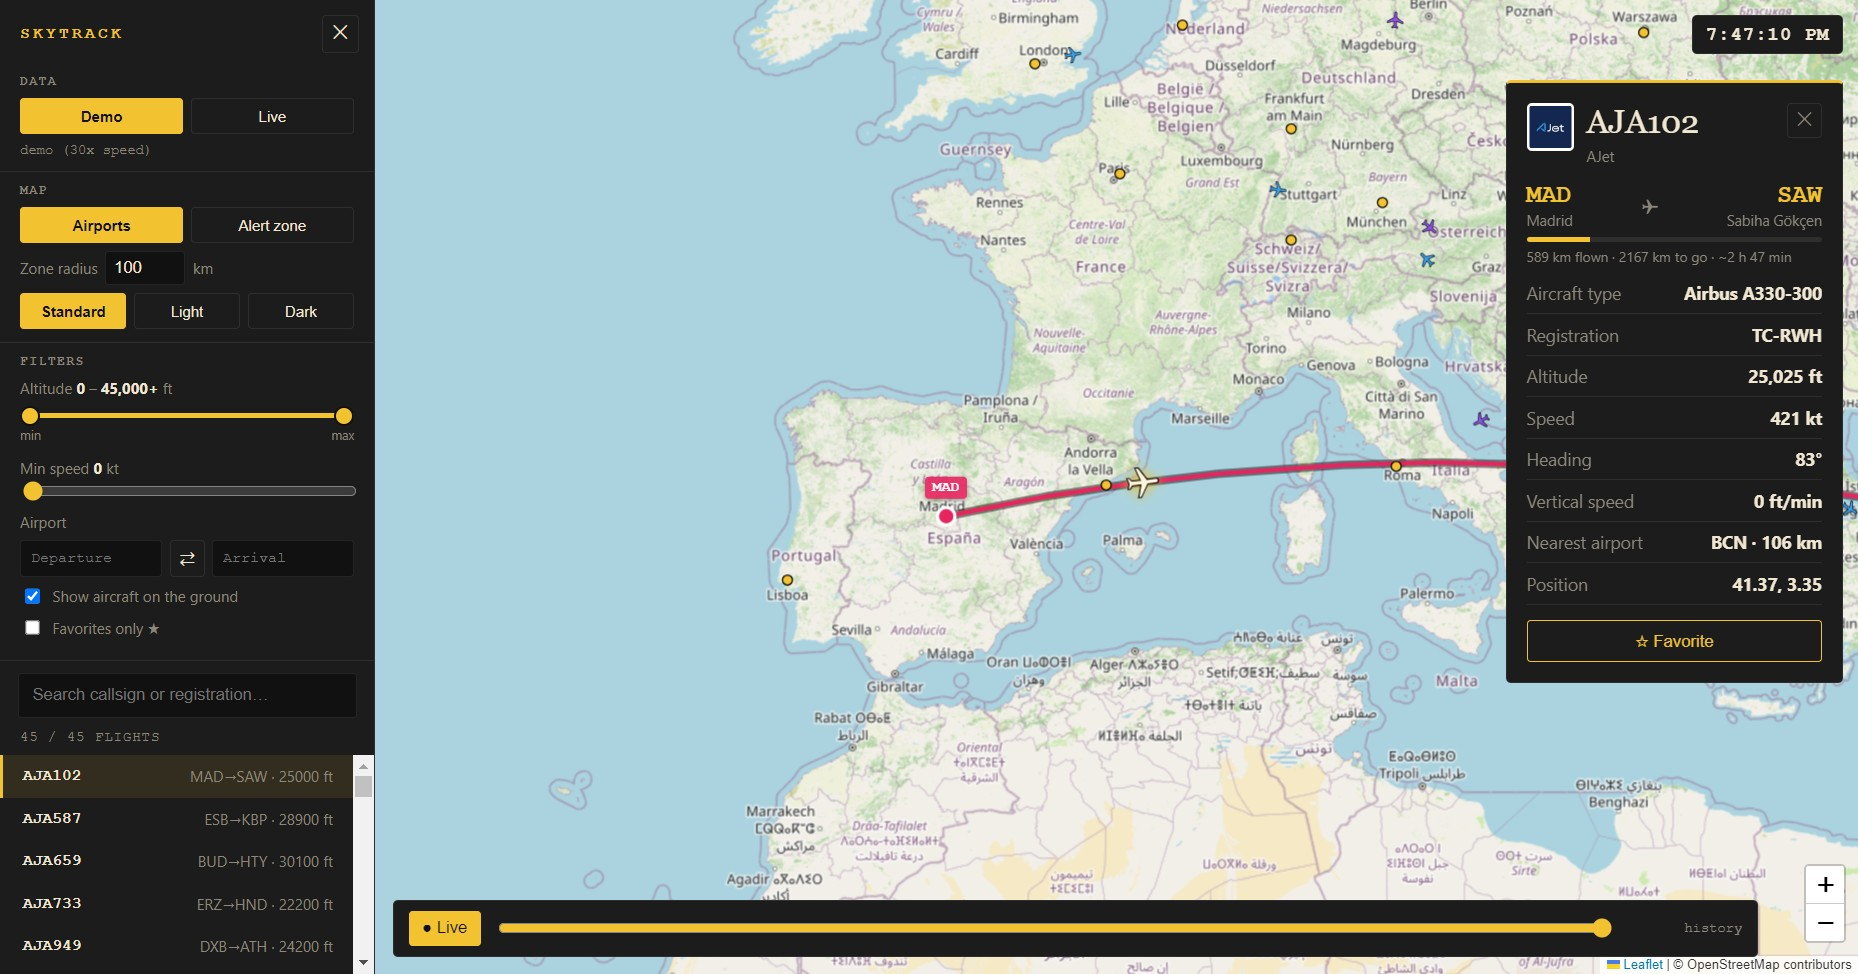
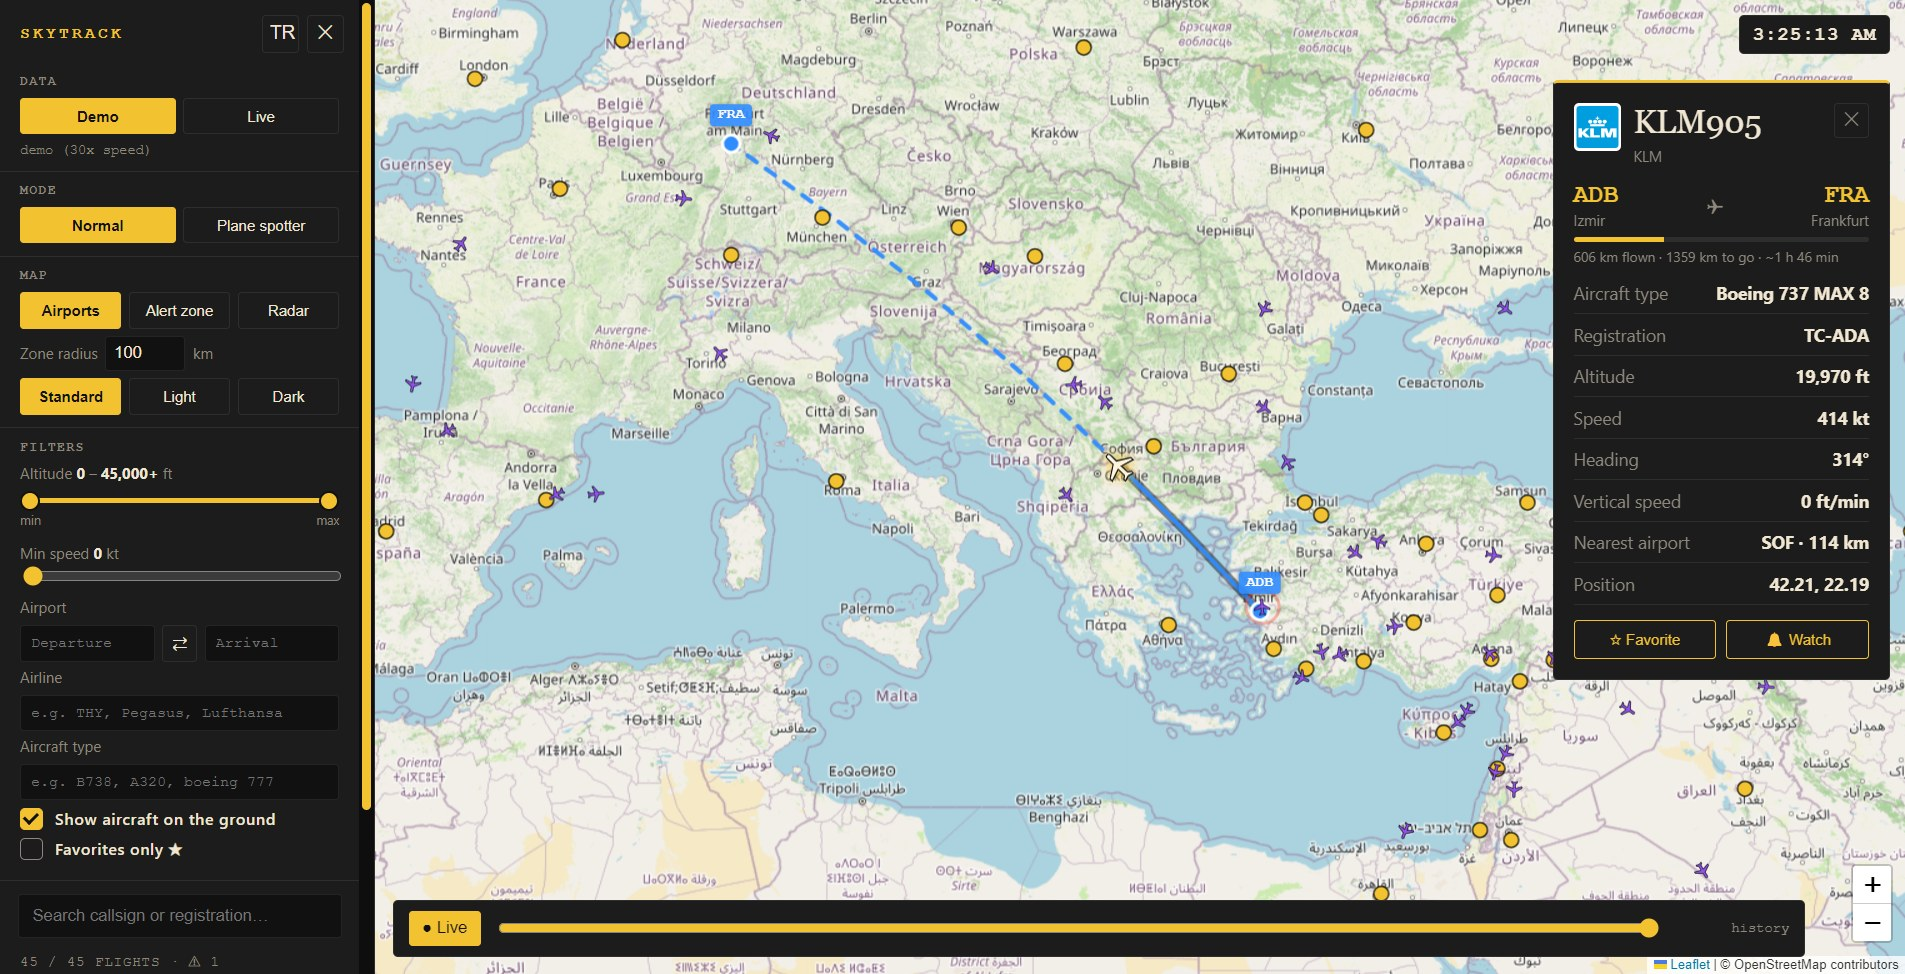
Site: new features, data sources and screenshot

diff --git a/site/index.html b/site/index.html
@@ -111,7 +111,7 @@ header,main,footer{position:relative;z-index:1}
     <a class="btn primary" href="#get-started">Get started</a>
     <a class="btn" href="https://github.com/SametDuhan/airock">View on GitHub</a>
   </div>
-  <div class="shot"><img src="screenshot.jpg" alt="SkyTrack in demo mode, with a selected flight's route and details" width="1280" height="719"></div>
+  <div class="shot"><img src="screenshot.jpg" alt="SkyTrack in demo mode, with a selected flight's route and details" width="1280" height="671"></div>
 </div>
 
 <section id="features"><div class="wrap">
@@ -121,10 +121,17 @@ header,main,footer{position:relative;z-index:1}
     <div class="card"><h3>Live flights</h3><p>Aircraft positions refresh every 15 seconds. Move the map and the new area loads right away.</p></div>
     <div class="card"><h3>Flight details</h3><p>Airline, aircraft type, registration, photo, route, distance and time left, altitude, speed and vertical speed.</p></div>
     <div class="card"><h3>Route and trail</h3><p>The route is drawn as a great-circle arc. The last ~30 minutes of the flight path show as a trail.</p></div>
-    <div class="card"><h3>Filters</h3><p>Altitude range, minimum speed, departure/arrival airport, aircraft on the ground, and favorites only.</p></div>
+    <div class="card"><h3>Filters</h3><p>Altitude range, minimum speed, departure/arrival airport, airline, aircraft type, aircraft on the ground, and favorites only.</p></div>
     <div class="card"><h3>Alert zone</h3><p>Pick a 10–500 km circle on the map. Get a notification when an aircraft enters it.</p></div>
     <div class="card"><h3>Replay</h3><p>Rewind the last hour with the slider at the bottom, then press “Live” to return.</p></div>
     <div class="card"><h3>Demo mode</h3><p>45 simulated flights, no internet needed. Time runs 30× faster.</p></div>
+    <div class="card"><h3>Airport panel</h3><p>Click an airport for its photo, city and country, current weather, METAR and TAF, and live arrivals and departures. Click a flight to open it.</p></div>
+    <div class="card"><h3>Watchlist</h3><p>Watch a plane and get a notification when it takes off or lands, wherever it is in the world.</p></div>
+    <div class="card"><h3>Today's flights</h3><p>See every flight an aircraft made today, with times, distance and top altitude. Click one to draw it on the map.</p></div>
+    <div class="card"><h3>Emergency alerts</h3><p>Aircraft squawking 7500, 7600 or 7700 get a blinking red ring and a notification.</p></div>
+    <div class="card"><h3>Rain radar</h3><p>Add a live precipitation layer to the map with one click.</p></div>
+    <div class="card"><h3>Plane spotter mode</h3><p>An optional mode with a logbook, “new aircraft” and “new type” badges, extra details and CSV export. Off by default, so the app stays simple.</p></div>
+    <div class="card"><h3>English and Turkish</h3><p>Switch the whole interface between English and Turkish with one button.</p></div>
     <div class="card"><h3>Map styles</h3><p>Standard, light and dark maps.</p></div>
     <div class="card"><h3>Fast with many planes</h3><p>All aircraft are drawn on one canvas. Around 3,700 aircraft over Europe draw in about 8 ms.</p></div>
   </div>
@@ -149,9 +156,13 @@ npm start</pre>
   <h2>Data sources</h2>
   <p class="sub">Fully open data. Free sources have rate limits, so fewer aircraft may show when zoomed out.</p>
   <div class="src">
-    <div class="card"><h3>adsb.lol</h3><p>Live positions for the zoomed-in view.</p></div>
+    <div class="card"><h3>adsb.lol and adsb.fi</h3><p>Live positions and today's flights. Requests are spread over both feeds.</p></div>
     <div class="card"><h3>OpenSky</h3><p>Wide view and backup source.</p></div>
     <div class="card"><h3>adsbdb.com</h3><p>Route, aircraft type, registration and photo.</p></div>
+    <div class="card"><h3>Open-Meteo</h3><p>Airport weather.</p></div>
+    <div class="card"><h3>aviationweather.gov</h3><p>METAR and TAF reports.</p></div>
+    <div class="card"><h3>RainViewer</h3><p>Rain radar layer.</p></div>
+    <div class="card"><h3>Wikipedia and OpenStreetMap</h3><p>Airport photos, and the city and country of each airport.</p></div>
   </div>
 </div></section>
 </main>
